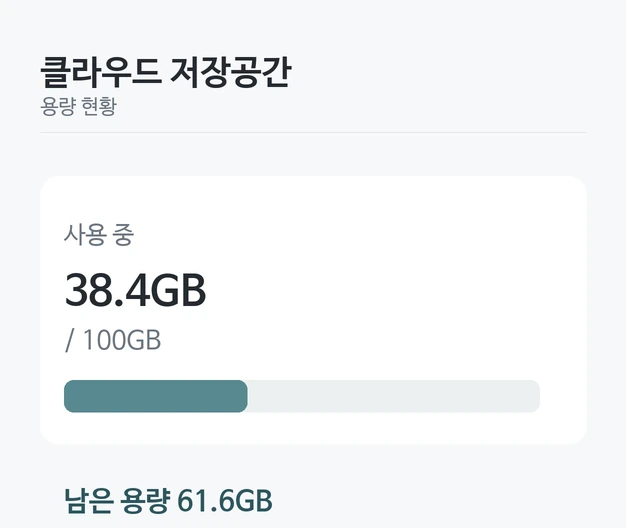
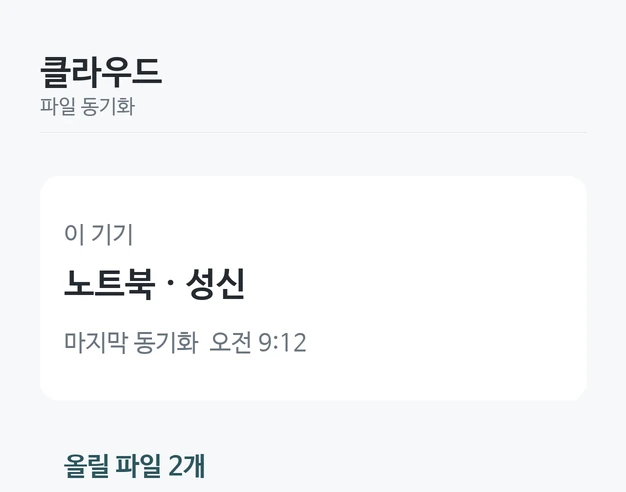
마흔 개 맥락 감사 — 거짓 단서가 이득이던 셈, 답을 알려 주던 그림, 어긋난 사용자 말
**거짓 단서가 이득이었다.** 미끼(터치해도 아무 일 없는 것)에도 「터치돼
보이는 단서」가 모자란 것으로 세고 있었다. 그래서 미끼를 비워 두면
「화면 전체에 단서가 잘 붙어 있다」 보너스 +60을 못 받고, 붙이면 거짓
단서 −30을 물고도 +60을 받는다. 미끼가 있는 다섯 의뢰 전부에서
**거짓 단서를 붙이는 쪽이 30점을 더 받았다.** 개버의 거짓 어포던스를
가르치면서 정반대로 셈하고 있었던 셈이다.

미끼는 알릴 것이 없다. 이제 모자란 단서로 세지 않는다.
비움 200 · 붙임 140(숙박은 100).

**그림이 답을 알려 주고 있었다.** 다섯 장의 부제가 제작 메모였다 —
「핀 없는 지도 화면」, 「재생 표시 없는 목록」, 「구분선만 있는 상단」,
「할 일 앱 상단」, 「로그인 화면 상단」. 앞의 둘은 무엇이 빠졌는지를
그대로 적어 두었고, 나머지는 학생에게 할 말이 아니다.

**그림과 맡은 일이 어긋난 곳.** 클라우드는 맡은 일이 「동기화가 끝났는지
확인」인데 그림은 용량 이야기(38.4GB / 100GB)만 하고 있었다. 마지막
동기화 시각을 보여 주도록 다시 그리고, 화면 이름도 저장공간 → 동기화로.

**사용자 말이 실제 결함과 다른 곳 여섯.**
- 영상 「재생 버튼이 작고 흐려서」 → 재생 버튼은 없다. 썸네일에 재생
  표시가 없는 것이 결함이다.
- 결제 「버튼이 한참 아래에 있는 줄」 → 화면은 밀리지 않는다.
- 좋아요 「숫자랑 버튼이 떨어져 있어서」 → 자리 옮기기를 뺐으므로 조가
  할 수 있는 일이 아니다. 상태를 모르는 것이 결함이다.
- 걸음 수 「점을 터치하면」 → 그림은 막대다.
- 전자책 「탭을 해야 하는지」 → 터치로.
- 이체 「회색이라」 → 금액 칸이 칸인 줄 모르는 것도 결함인데 빠져 있었다.

마흔 개 × 여섯 붙임새 240판. 테스트와 앱시장 어긋남 없음, 막다른 의뢰
없음, 고치기 전에 안 막히는 의뢰 없음, 다 붙이고도 막히는 의뢰 없음.
맡은 일이 차례 밖 부품을 가리키는 의뢰도 없다.

diff --git a/public/norman/js/jobs.js b/public/norman/js/jobs.js
@@ -21,7 +21,7 @@ export const JOBS = [
        unitHint: "원" },
      { id: "next",   kind: "button", label: "다음", look: "dead" }],
     [{ part: "amount", do: "type", val: "45000" }, { part: "next", do: "press" }],
-    "회색이라 못 터치하는 줄 알았는데 터치되더라고요."),
+    "숫자를 적는 칸인 줄도 몰랐고, 회색이라 터치되는 줄도 몰랐어요."),
 
   J("bank-account", "은행", "송금",
     "계좌번호 110-234-567890을 적어 보세요.",
@@ -124,7 +124,7 @@ export const JOBS = [
     [{ id: "v1", kind: "thumb", label: "집밥 김치볶음밥" },
      { id: "v2", kind: "thumb", label: "따뜻한 수프 만들기" }],
     [{ part: "v2", do: "press" }],
-    "재생 버튼이 너무 작고 흐려서 안 보여요."),
+    "그림만 있고 재생 표시가 없어서 영상인지 사진인지 모르겠어요."),
 
   J("book-page", "전자책", "마지막 등불",
     "다음 쪽으로 넘겨 보세요.",
@@ -133,7 +133,7 @@ export const JOBS = [
          "터치해야 하는지 옆으로 밀어야 하는지 알 수 없습니다." } },
      { id: "bar",  kind: "progress", label: "쪽 표시" }],
     [{ part: "page", do: "swipe" }],
-    "탭을 해야 하는지 밀어야 하는지 아무 말이 없네요."),
+    "터치해야 하는지 밀어야 하는지 아무 말이 없네요."),
 
   J("photo-slider", "사진 편집", "사진 보정",
     "필터 세기를 절반쯤으로 맞춰 보세요.",
@@ -211,7 +211,7 @@ export const JOBS = [
        stuck: { push: "요일별 막대는 잘 보입니다. 다만 막대 하나를 터치해 " +
          "그날의 자세한 수치를 볼 수 있다는 표시가 없습니다." } }],
     [{ part: "chart", do: "press" }],
-    "점을 터치하면 자세한 게 나오는 줄 몰랐어요."),
+    "막대를 터치하면 그날 수치가 나오는 줄 몰랐어요."),
 
   J("calm-play", "명상", "호수 명상",
     "명상을 멈춰 보세요.",
@@ -251,7 +251,7 @@ export const JOBS = [
      { id: "like", kind: "icon", label: "좋아요", need: ["name", "push", "state"] },
      { id: "cnt",  kind: "text", text: "12" }],
     [{ part: "like", do: "press" }],
-    "숫자랑 버튼이 따로 떨어져 있어서 어디를 터치해야 할지."),
+    "하트를 터치하긴 했는데 지금 좋아요가 된 건지 아닌지 모르겠어요."),
 
   J("sns-profile", "SNS", "피드",
     "글쓴이의 프로필로 들어가 보세요.",
@@ -330,13 +330,13 @@ export const JOBS = [
     [{ part: "pick", do: "press" }, { part: "bar", do: "read" }],
     "올라가는 중인지 멈춘 건지 알 수가 없어요."),
 
-  J("cloud-sync", "클라우드", "저장공간",
+  J("cloud-sync", "클라우드", "동기화",
     "동기화가 끝났는지 확인해 보세요.",
     [{ id: "f1", kind: "list", visual: "file", label: "보고서.docx", sub: "2.4MB" },
      { id: "f2", kind: "list", visual: "file", label: "사진 모음", sub: "18.1MB" },
      { id: "ic", kind: "status", label: "동기화 상태", need: ["name", "state"] }],
     [{ part: "ic", do: "read" }],
-    "이 아이콘들이 무슨 뜻인지 설명이 없어요."),
+    "저 동그라미가 다 올라갔다는 건지 아직이라는 건지 모르겠어요."),
 
   J("coupon-apply", "예약", "결제",
     "쿠폰을 적용해 보세요.",
@@ -351,7 +351,7 @@ export const JOBS = [
      { id: "memo", kind: "input", visual: "note", label: "요청 사항" },
      { id: "pay",  kind: "button", label: "결제하기", need: ["name", "push", "feed", "state"] }],
     [{ part: "addr", do: "type", val: "성북구" }, { part: "pay", do: "press" }],
-    "결제 버튼이 한참 아래에 있는 줄 몰랐어요."),
+    "이걸 터치하면 바로 결제되는 건지, 다음 화면이 또 있는 건지 모르겠어요."),
 ];
 
 export const TEAMS = 20;

diff --git a/public/norman/js/score.js b/public/norman/js/score.js
@@ -13,6 +13,11 @@ export function judge(job, attached) {
   const gaps = [];
 
   for (const p of job.parts) {
+    // 미끼는 터치해도 아무 일이 없는 것이다. 알릴 것이 없으므로 모자란
+    // 단서도 없다. 이것을 세면 「미끼를 비워 두면 +60을 못 받고,
+    // 붙이면 −30만 물고 +60을 받는다」가 되어, 거짓 단서를 붙이는 쪽이
+    // 30점을 더 받는다. 수업에서 가르치는 것과 정반대가 된다.
+    if (p.decoy) continue;
     const given = {};
     for (const x of (at[p.id] || []))
       for (const g of givesOf(x.recipe)) given[g] = true;

diff --git a/tools/generate_norman_job_assets.py b/tools/generate_norman_job_assets.py
@@ -360,7 +360,7 @@ def food_option(c):
 
 
 def map_pin(c):
-    header(c, "주변 지도", "핀 없는 지도 화면")
+    header(c, "주변 지도", "성북동 일대")
     map_scene(c, (70, 160, 940, 450), False)
 
 
@@ -403,7 +403,7 @@ def music_cover(c):
 
 
 def video_play(c):
-    header(c, "요리 영상", "재생 표시 없는 목록")
+    header(c, "요리 영상", "오늘의 추천")
     cooking_thumb(c, (70, 166, 420, 236), 0)
     cooking_thumb(c, (590, 166, 420, 236), 1)
     c.text((70, 430), "집밥 김치볶음밥", 28, INK, True)
@@ -494,7 +494,7 @@ def cal_drag(c):
 
 
 def todo_check(c):
-    header(c, "오늘", "할 일 앱 상단")
+    header(c, "오늘", "9월 21일 월요일")
     c.rr((70, 170, 1010, 352), 30)
     c.text((110, 210), "2026년 9월 21일", 34, INK, True)
     c.text((110, 260), "월요일 · 맑음", 25, MUTED)
@@ -626,7 +626,7 @@ def story_tap(c):
 
 
 def set_toggle(c):
-    header(c, "설정", "구분선만 있는 상단")
+    header(c, "설정", "알림과 계정")
     sections = ["계정", "알림", "화면", "개인정보"]
     y = 180
     for title in sections:
@@ -673,7 +673,7 @@ def sub_cancel(c):
 
 
 def login_error(c):
-    header(c, "환영합니다", "로그인 화면 상단")
+    header(c, "환영합니다", "다시 만나 반가워요")
     c.ellipse((452, 184, 628, 360), fill=blend(ACCENT, SURFACE, 0.1))
     c.ellipse((496, 228, 584, 316), fill=SURFACE)
     c.text((540, 430), "다시 만나 반가워요", 38, INK, True, anchor="mm")
@@ -681,7 +681,7 @@ def login_error(c):
 
 
 def join_rule(c):
-    header(c, "회원가입", "진행 단계")
+    header(c, "회원가입", "2단계 · 기본 정보")
     stages = ["약관", "정보", "확인", "완료"]
     x0, y = 210, 260
     c.line([(x0, y), (870, y)], LINE, 5)
@@ -713,14 +713,12 @@ def file_upload(c):
 
 
 def cloud_sync(c):
-    header(c, "클라우드 저장공간", "용량 현황")
-    c.rr((70, 176, 1010, 444), 30)
-    c.text((110, 222), "사용 중", 24, MUTED)
-    c.text((110, 268), "38.4GB", 42, INK, True)
-    c.text((110, 326), "/ 100GB", 26, MUTED)
-    c.rr((110, 380, 930, 412), 16, fill=(235, 239, 241))
-    c.rr((110, 380, 426, 412), 16, fill=blend(ACCENT, SURFACE, 0.1))
-    c.text((110, 486), "남은 용량 61.6GB", 28, ACCENT_DARK, True)
+    header(c, "클라우드", "파일 동기화")
+    c.rr((70, 176, 1010, 400), 30)
+    c.text((110, 222), "이 기기", 24, MUTED)
+    c.text((110, 266), "노트북 · 성신", 34, INK, True)
+    c.text((110, 330), "마지막 동기화  오전 9:12", 24, MUTED)
+    c.text((110, 452), "올릴 파일 2개", 26, ACCENT_DARK, True)
 
 
 def coupon_apply(c):
